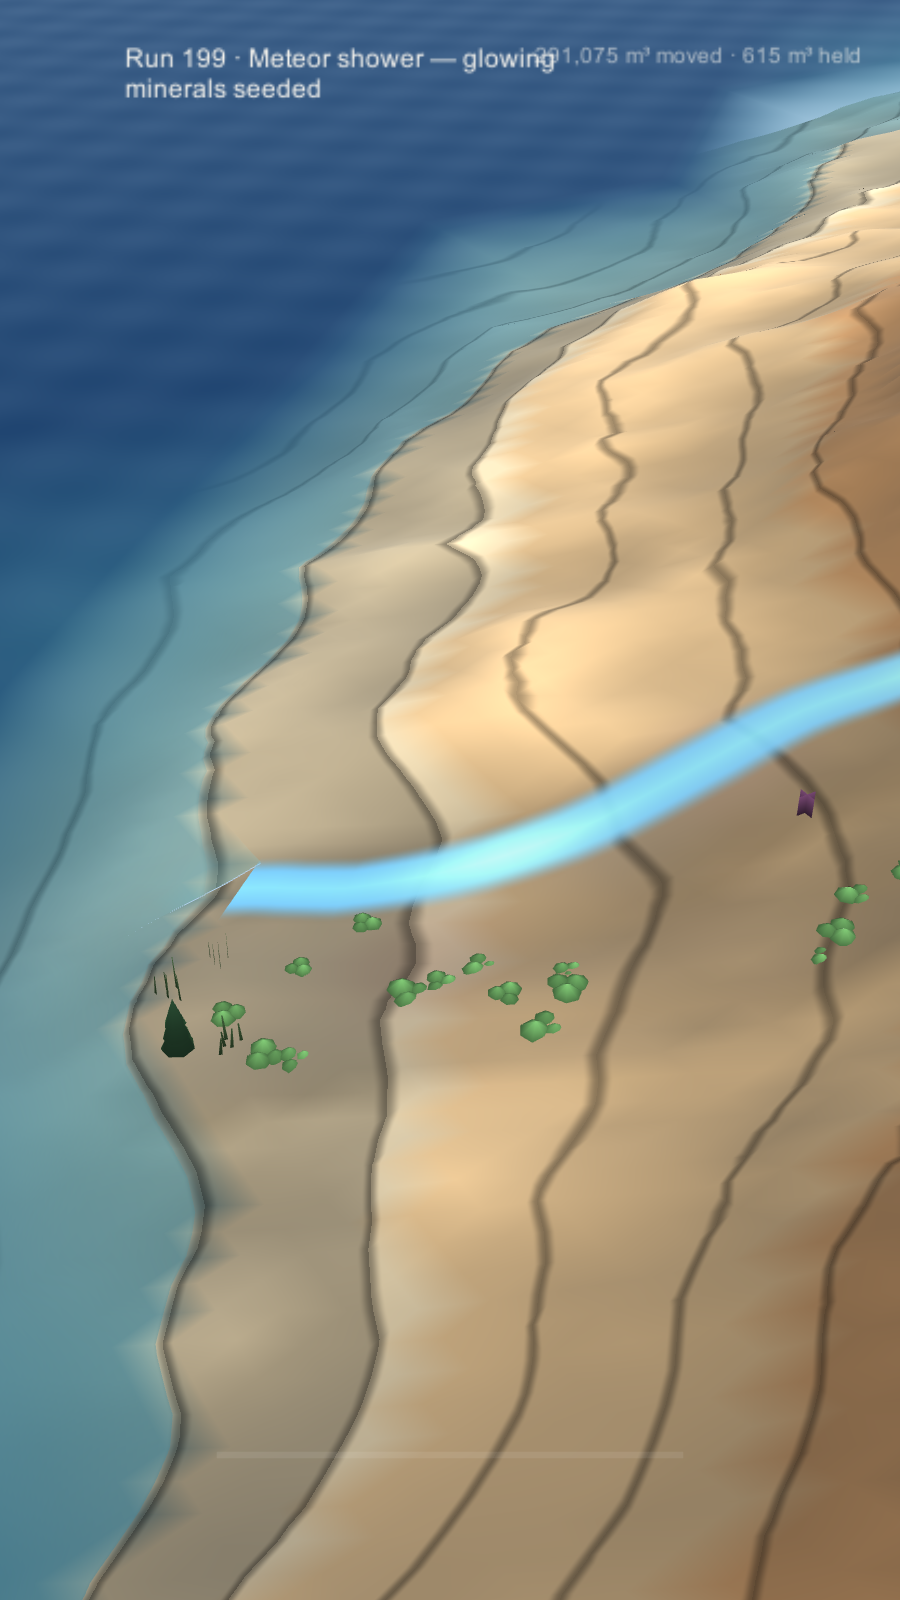
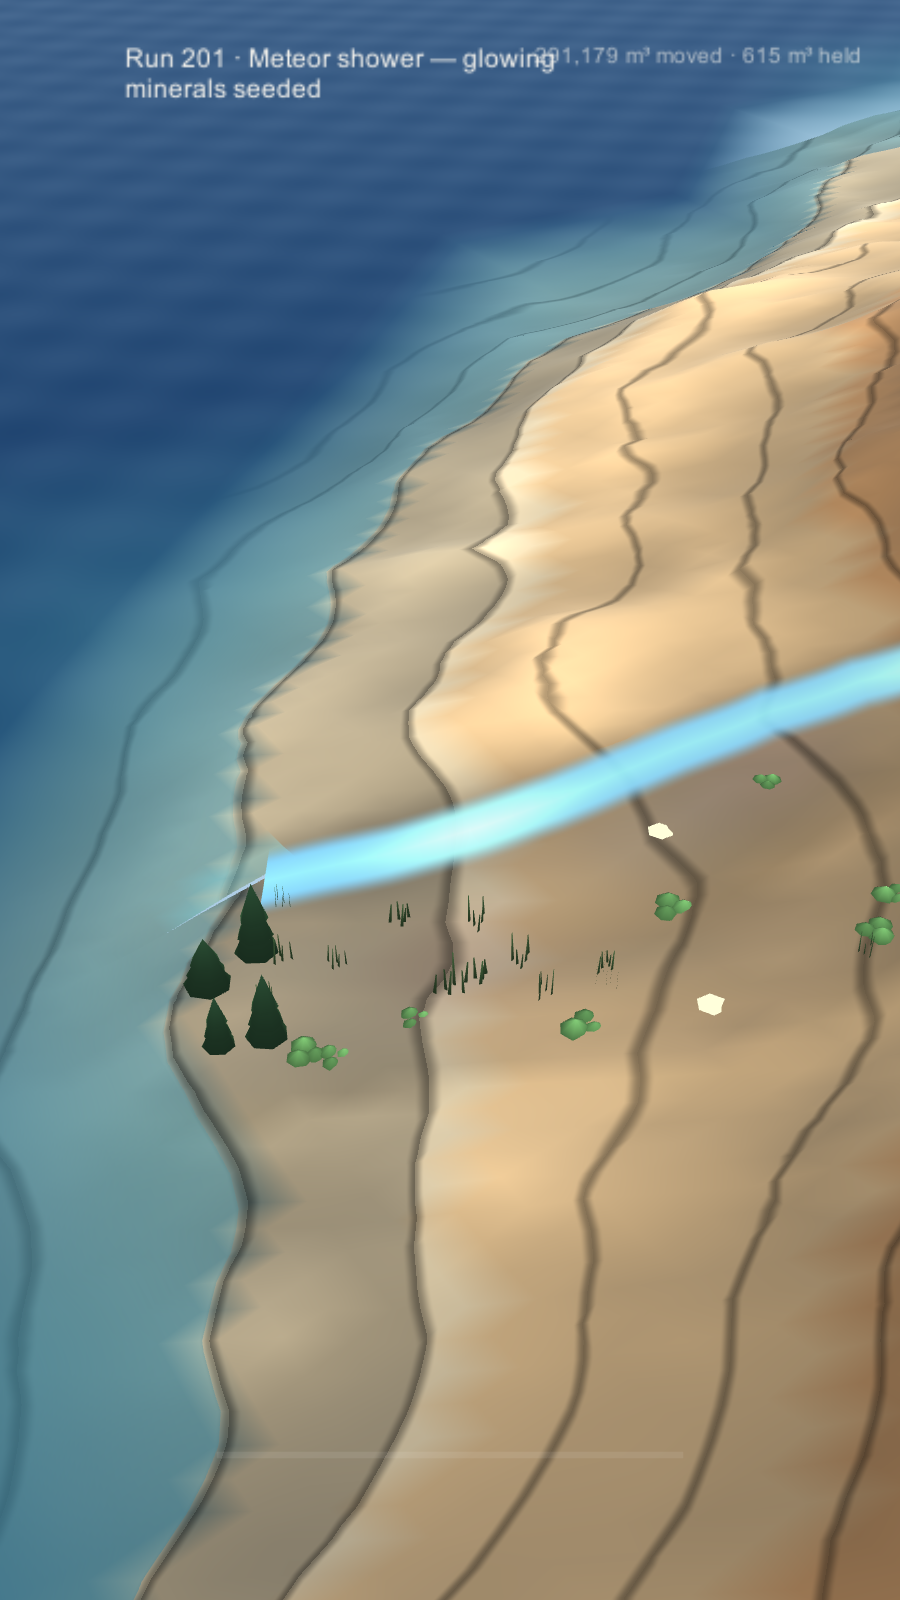
feat(meta): the time-lapse earns its button — counted, skippable, and finally observed
The playback existed and was wired; nothing had ever entered it. Now:
the hint shows 'Run 42 of 201 · tap to skip' live from the frame on
screen, a tap ends playback early (0.4 s grace so the opening tap
cannot also be the skipping tap), and props stop drawing during
playback — the probe photographed today's conifers floating over the
mountain of two hundred runs ago, since Graphics.DrawMesh from Update
does not care that the terrain under it was swapped.

New headless archive test: 3 appends -> 3 frames with run numbers
intact, 5,291/2,340 cells of recorded change, last frame reconstructs
the live terrain to 0.002 m worst error, truncated mid-append tail
dropped cleanly. Probe now walks the playback for real: Idle ->
TimeLapse -> Idle on its own, play_timelapse.png shot from inside,
0 failed, 0 runtime errors.

Closes L-061.

diff --git a/Assets/Editor/RillSmokeTest.cs b/Assets/Editor/RillSmokeTest.cs
@@ -252,6 +252,93 @@ namespace Rill.EditorTools
             return false;
         }
 
+        /// <summary>
+        /// The time-lapse archive, round-tripped. The playback UI existed for weeks wired to an
+        /// archive nobody had ever read back — the exact "built, never observed" shape — and the
+        /// archive is append-only binary, where a silent format break costs the player their whole
+        /// recorded history. (L-061)
+        /// </summary>
+        [MenuItem("RILL/Run Headless TimeLapse Test", false, 73)]
+        public static void RunHeadlessTimeLapse()
+        {
+            var log = new StringBuilder();
+            log.AppendLine("=== RILL time-lapse archive ===");
+            int pass = 0, fail = 0;
+            System.Action<bool, string> check = (ok, what) =>
+            {
+                if (ok) { pass++; log.AppendFormat("  ok    {0}\n", what); }
+                else { fail++; log.AppendFormat("  FAIL  {0}\n", what); }
+            };
+
+            // Scratch slot far outside anything a player can reach, wiped before and after.
+            const int Scratch = 93;
+            string path = System.IO.Path.Combine(SaveSystem.RootDir, "timelapse_" + Scratch + ".bin");
+            if (System.IO.File.Exists(path)) System.IO.File.Delete(path);
+
+            var world = RillWorld.Create(new GameConfig(), 555u, Biome.Sandstone);
+            var archive = new TimeLapseArchive(Scratch);
+            check(!archive.Exists, "a fresh slot has no archive");
+
+            // Three keyframes with real, distinct terrain between them — a genuine gorge's worth
+            // of change, so "the frames differ" is a claim about recording and not about noise.
+            archive.Append(world.Field, 1);
+            for (int i = 0; i < world.Field.Count; i++)
+                if (world.Field.Height[i] > 20f) world.Field.Height[i] -= 2.5f;
+            archive.Append(world.Field, 4);
+            for (int i = 0; i < world.Field.Count; i++)
+                if (world.Field.Height[i] > 60f) world.Field.Height[i] -= 4f;
+            archive.Append(world.Field, 7);
+
+            var frames = archive.LoadAll();
+            check(frames.Count == 3, "three appends read back as three frames, got " + frames.Count);
+            if (frames.Count == 3)
+            {
+                check(frames[0].Run == 1 && frames[1].Run == 4 && frames[2].Run == 7,
+                      "run numbers survive: " + frames[0].Run + ", " + frames[1].Run + ", " + frames[2].Run);
+
+                int differ01 = 0, differ12 = 0;
+                for (int i = 0; i < frames[0].Data.Length; i++)
+                {
+                    if (System.Math.Abs(frames[0].HeightAt(i) - frames[1].HeightAt(i)) > 0.5f) differ01++;
+                    if (System.Math.Abs(frames[1].HeightAt(i) - frames[2].HeightAt(i)) > 0.5f) differ12++;
+                }
+                check(differ01 > 100 && differ12 > 100,
+                      "the frames record the terrain actually changing: " + differ01 + " and " + differ12 + " cells moved");
+
+                // The last frame must reconstruct the current terrain to quantisation accuracy —
+                // 16 bits over the height range, ~2 mm here. 0.1 m of slack covers downsampling.
+                float worst = 0f;
+                int res = TimeLapseArchive.Resolution;
+                int step = world.Field.Size / res;
+                for (int z = 0; z < res; z++)
+                    for (int x = 0; x < res; x++)
+                    {
+                        float have = frames[2].HeightAt(z * res + x);
+                        float sum = 0f; int n = 0;
+                        for (int dz = 0; dz < step; dz++)
+                            for (int dx = 0; dx < step; dx++)
+                            {
+                                int gz = z * step + dz, gx = x * step + dx;
+                                if (gz >= world.Field.Size || gx >= world.Field.Size) continue;
+                                sum += world.Field.Height[gz * world.Field.Size + gx]; n++;
+                            }
+                        float want = n > 0 ? sum / n : 0f;
+                        worst = Mathf.Max(worst, Mathf.Abs(have - want));
+                    }
+                check(worst < 0.1f, string.Format("the last frame reconstructs the live terrain, worst error {0:0.000} m", worst));
+            }
+
+            // A truncated tail — the app killed mid-append — must not poison the whole history.
+            using (var fs = new System.IO.FileStream(path, System.IO.FileMode.Append))
+                fs.Write(new byte[100], 0, 100);
+            var withTail = archive.LoadAll();
+            check(withTail.Count == 3, "a truncated tail write is dropped cleanly, " + withTail.Count + " frames survive");
+
+            System.IO.File.Delete(path);
+            log.AppendFormat("--- {0} passed, {1} failed ---\n", pass, fail);
+            if (fail > 0) Debug.LogError(log.ToString()); else Debug.Log(log.ToString());
+        }
+
         static DateTime FindWeather(Rill.World.WeatherSystem w, Rill.World.WeatherKind want)
         {
             var d = new DateTime(2026, 3, 1, 6, 0, 0, DateTimeKind.Utc);

diff --git a/Assets/Editor/RillPlayProbe.cs b/Assets/Editor/RillPlayProbe.cs
@@ -162,11 +162,37 @@ namespace Rill.EditorTools
                     Check(runner.Current == RunController.State.Idle, "dismissing the card returns to idle, state=" + runner.Current);
                     Check(Visible(hud, "Back"), "Back is visible on the mountain — " + Describe(hud, "Back"));
                     Shot(hud, "play_after_report.png");
+                    Check(Click(hud, "BtnTime-lapse"), "Time-lapse can be pressed");
+                    Next(); return;
+
+                // The player's own history plays back. This path was wired for weeks and no test
+                // had ever entered it — playback state, the hand-back to idle, none of it. (L-061)
+                case 6:
+                    if (inPhase < 0.7f) return;
+                    if (runner.Current == RunController.State.Idle)
+                    {
+                        // A save too young to have two keyframes refuses politely; that is correct
+                        // behaviour, not a probe failure — but say so, or a broken Play() that
+                        // always refuses would photograph as a pass.
+                        Debug.Log("[PROBE] note  time-lapse declined to play (not enough history on this save)");
+                        Check(Click(hud, "Back"), "Back can be pressed");
+                        SessionState.SetInt(PhaseKey, 8); return;
+                    }
+                    Check(runner.Current == RunController.State.TimeLapse,
+                          "Time-lapse plays the mountain's history, state=" + runner.Current);
+                    Shot(hud, "play_timelapse.png");
+                    Next(); return;
+
+                // Playback must end on its own and hand the mountain back.
+                case 7:
+                    if (runner.Current == RunController.State.TimeLapse && inPhase < 90f) return;
+                    Check(runner.Current == RunController.State.Idle,
+                          "the time-lapse hands back to idle when it ends, state=" + runner.Current);
                     Check(Click(hud, "Back"), "Back can be pressed");
                     Next(); return;
 
                 // And Back is 'go home': the title again, Begin again.
-                case 6:
+                case 8:
                     if (inPhase < 1.5f) return;
                     Check(runner.Current == RunController.State.Title, "Back returns to the main screen, state=" + runner.Current);
                     Check(hud.TitleOnScreen, "the main screen is back");

diff --git a/Assets/Scripts/Flow/RunController.cs b/Assets/Scripts/Flow/RunController.cs
@@ -99,6 +99,7 @@ namespace Rill.Flow
         const float SettleSeconds = 1.1f;
         CarveReport _settleReport;
         float _settleTimer;
+        float _lapseGrace;
         bool _autoRun;
         Vector2 _lastThumbPos;
 
@@ -621,10 +622,29 @@ namespace Rill.Flow
 
         void UpdateTimeLapse()
         {
-            if (_player != null && !_player.Playing)
+            if (_player == null) return;
+
+            if (_player.Playing)
             {
+                // The run number is what makes this the player's own history rather than a screen
+                // saver: "Run 3 … Run 847" is six months of their play going past. And a tap ends
+                // it — a playback with no exit held the player hostage for the whole archive,
+                // which on a mature mountain is minutes.
+                Hud.SetHint(string.Format("Run {0:n0} of {1:n0}  ·  tap to skip",
+                    _player.CurrentRun, Active.RunNumber));
+                // Grace period so the tap that pressed the Time-lapse button cannot also be the
+                // tap that skips the playback it just started.
+                if (Time.time > _lapseGrace && Thumb.WasTap()) _player.Stop();
+            }
+
+            if (!_player.Playing)
+            {
+                Hud.SetHint("");
                 Terrain.gameObject.SetActive(true);
                 Pooled.gameObject.SetActive(true);
+                if (Ecosystem != null) Ecosystem.enabled = true;
+                if (Revelation != null) Revelation.enabled = true;
+                if (Pickups != null) Pickups.enabled = true;
                 EnterIdle();
             }
         }
@@ -904,7 +924,13 @@ namespace Rill.Flow
             }
             Terrain.gameObject.SetActive(false);
             Pooled.gameObject.SetActive(false);
+            // Props draw themselves from Update, so hiding the terrain does not hide them: the
+            // probe photographed today's trees floating over the mountain of two hundred runs ago.
+            if (Ecosystem != null) Ecosystem.enabled = false;
+            if (Revelation != null) Revelation.enabled = false;
+            if (Pickups != null) Pickups.enabled = false;
             Hud.SetIdleUI(false);
+            _lapseGrace = Time.time + 0.4f;
             Current = State.TimeLapse;
         }
 

diff --git a/OPEN-LOOPS.md b/OPEN-LOOPS.md
@@ -3,7 +3,7 @@
 **This file drives implementation.** Read it first, work the top open loop, close it with evidence,
 then update this file. It is the only place that says what happens next.
 
-Last updated: **2026-07-27** · Open loops: **24** · Closed this cycle: **45** (34 archived)
+Last updated: **2026-07-27** · Open loops: **23** · Closed this cycle: **46** (34 archived)
 
 ---
 
@@ -253,14 +253,6 @@ Rejected on the way: anything resembling XP, streaks that punish a missed day, t
 energy systems, and a "prestige" reset (invariant 1 makes the whole genre impossible here, which
 is the design's point). Ordered by implementation order, terminal-verifiable ones first.
 
-### L-061 · The mountain's own history is invisible
-**Why** — `TimeLapse` has archived a frame of every run since it was written, per slot, and nothing
-plays it back. Watching six months of your own carving in ten seconds is the single strongest
-emotional-ownership moment this design has, it is already recorded, and it is the natural share
-clip — nobody screenshots a heightfield, everybody shares a time-lapse.
-**Done when** — A player can watch their mountain's history from the records screen, and the
-playback is verifiably the archive (frame count printed and matching the almanac's run count).
-
 ### L-062 · Daily glyphs vanish the next day
 **Why** — The Daily produces one shareable glyph and then discards it; yesterday's is gone. A
 collection you cannot look at is not a collection. Kept glyphs are a calendar of played days —
@@ -343,6 +335,25 @@ headless mass-balance check accounts for every m³ of shower water.
 ---
 
 ## Recently closed
+
+### L-061 · The mountain's own history is invisible — closed 2026-07-27
+The loop was wrong about what was missing, in a useful way: `TimeLapsePlayer` and the HUD button
+already existed and were wired — what did not exist was any observation of them working, a run
+counter during playback, or a way out of it. The playback held the player hostage for the whole
+archive with no caption saying what they were watching.
+**Built** — during playback the hint reads "Run 42 of 201 · tap to skip", live from the frame
+being shown; a tap ends it early (with a 0.4 s grace so the tap that opened the playback cannot
+also skip it); and props no longer draw over the history — the probe photographed today's conifers
+floating above the mountain of two hundred runs ago, because `Graphics.DrawMesh` from `Update`
+does not care that the terrain under it was swapped.
+**Evidence** — headless archive test (`RILL/Run Headless TimeLapse Test`), 6 assertions: three
+appends read back as three frames with their run numbers; 5,291 and 2,340 cells of recorded change
+between frames; the last frame reconstructs the live terrain to **0.002 m** worst error; a
+truncated mid-append tail is dropped cleanly with all whole frames surviving. Play probe now
+enters the playback for real: `Idle -> TimeLapse`, 3.1 s of playback, `TimeLapse -> Idle` on its
+own, 0 failed, 0 runtime errors — and `docs/shots/play_timelapse.png` is the running playback
+photographed from inside, caption on screen, no floating props. The tap-to-skip path is the one
+thing the probe cannot drive (it clicks buttons, not the world) — unobserved.
 
 ### L-060 · The end card never says what is almost about to happen — closed 2026-07-27
 `NextTeaser.For(world)`: one world-derived line on the end card about what is *almost* about to
